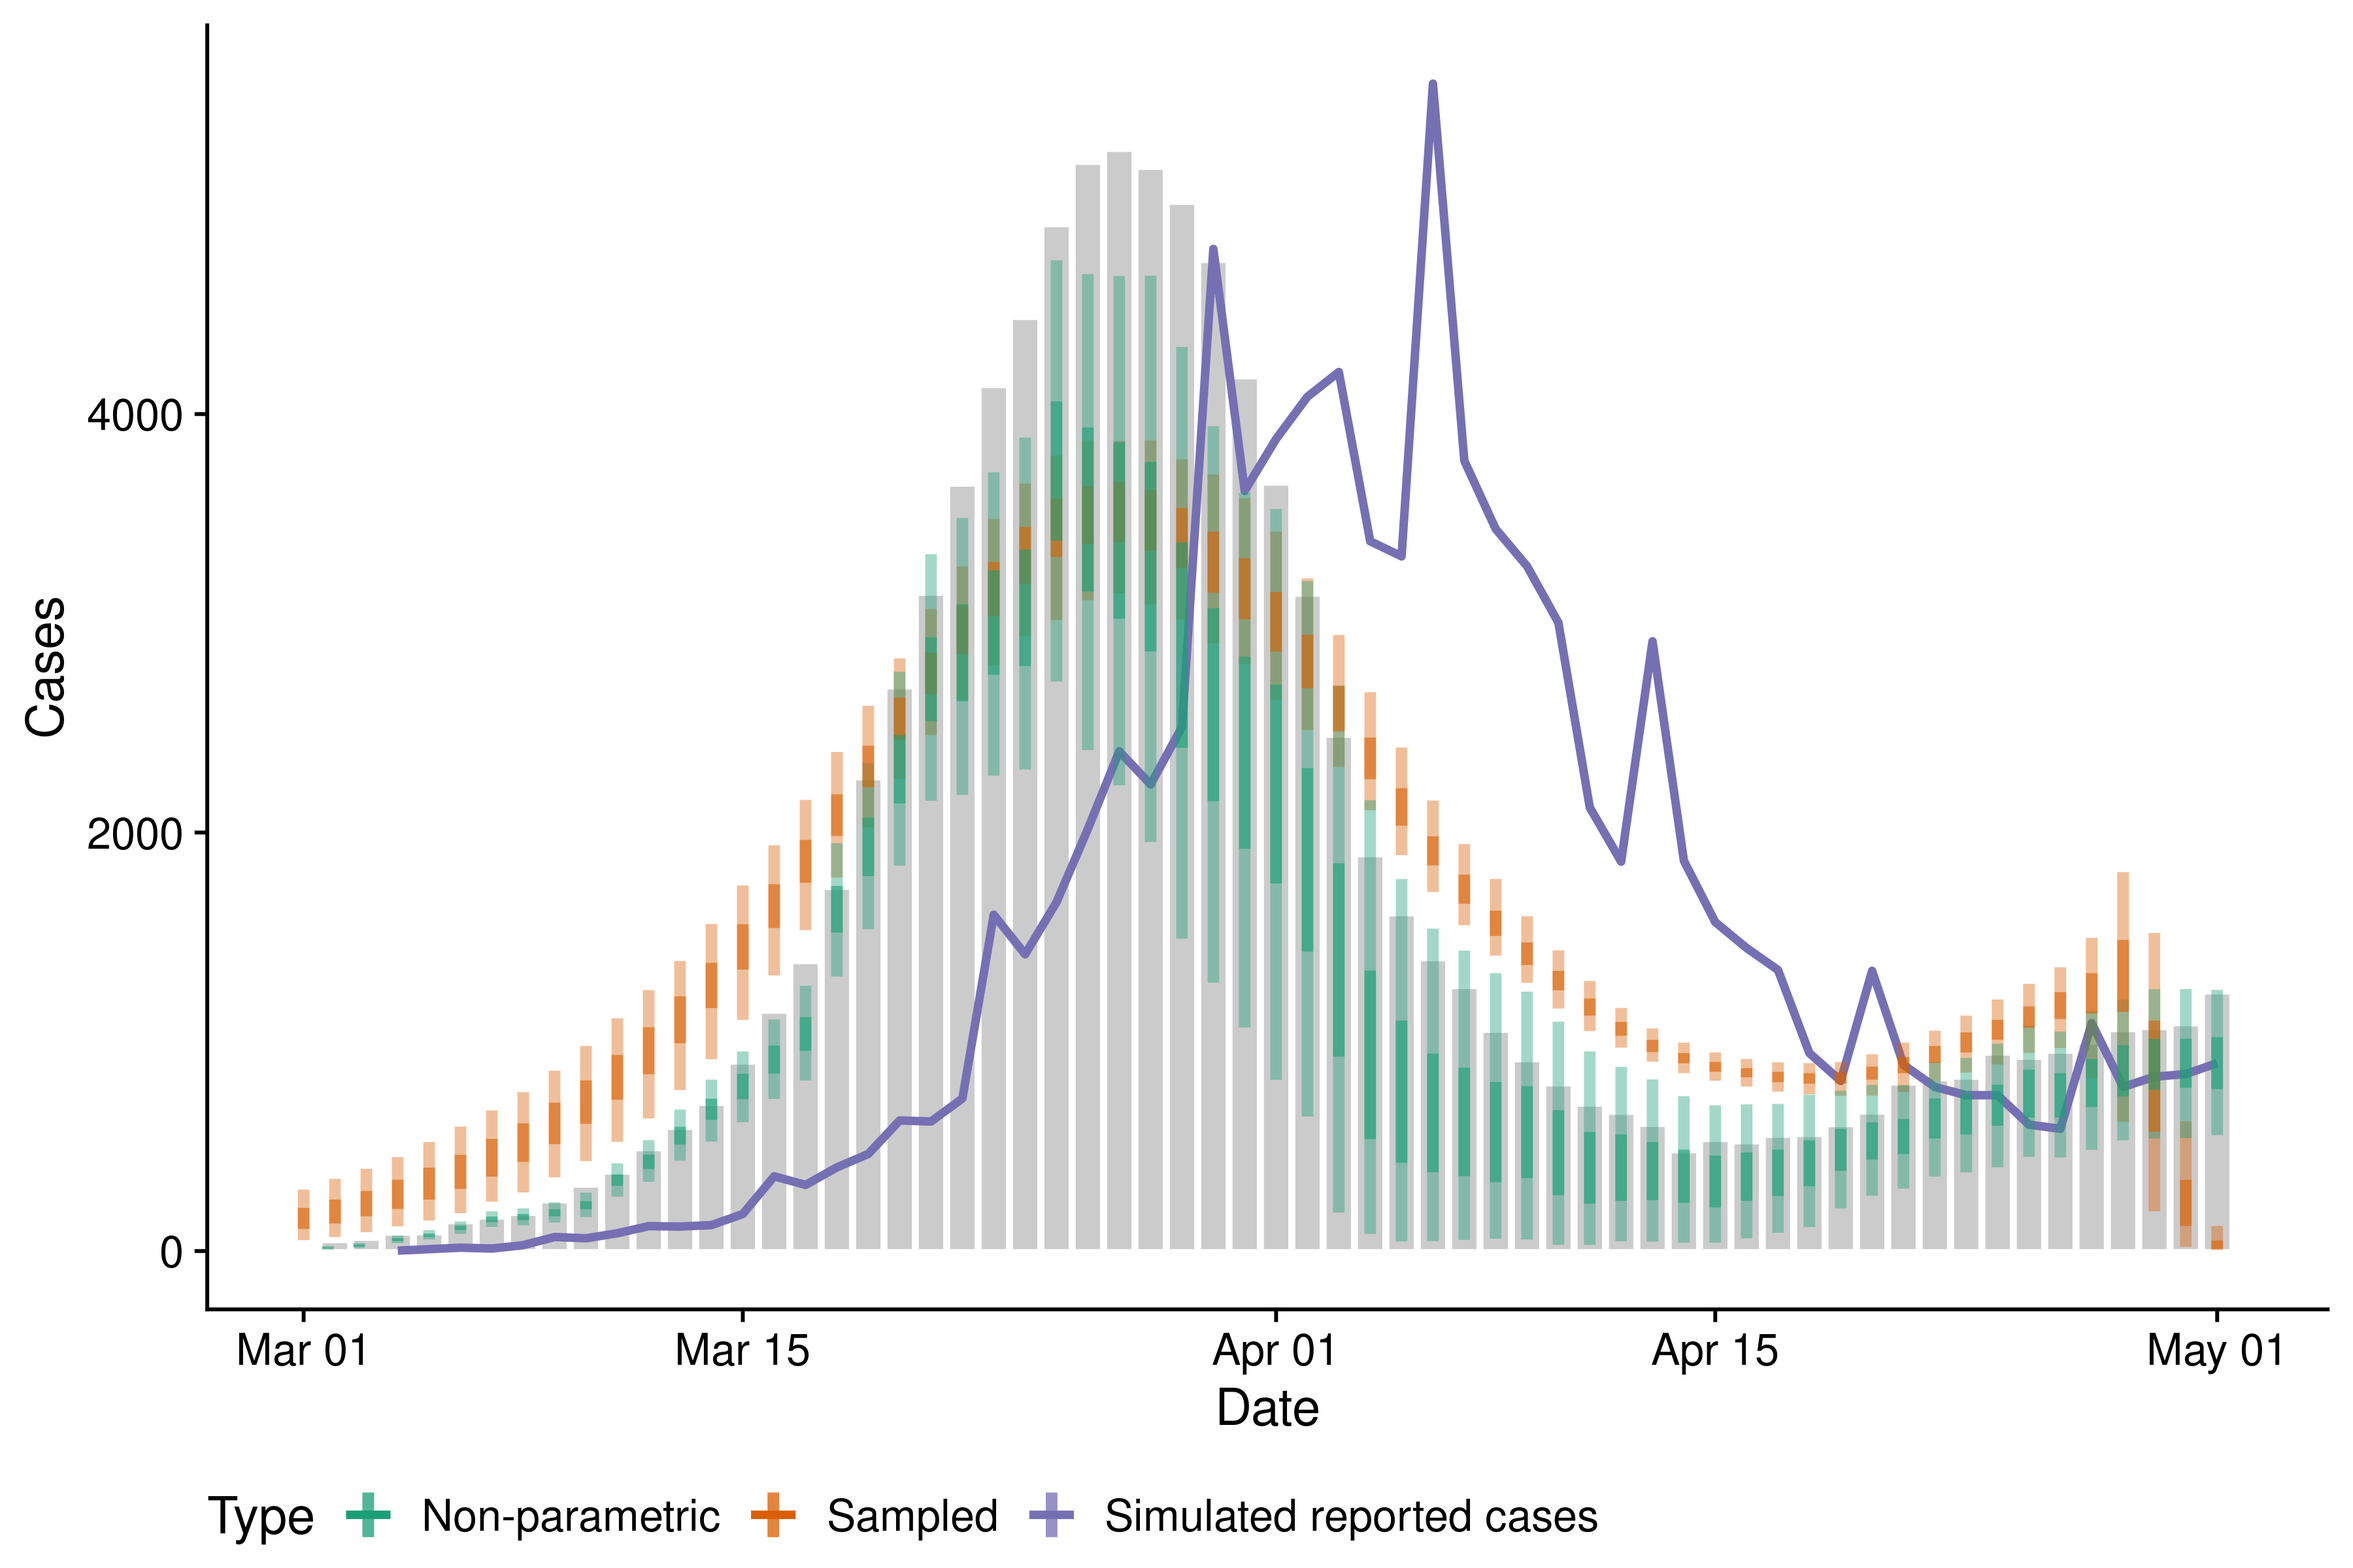
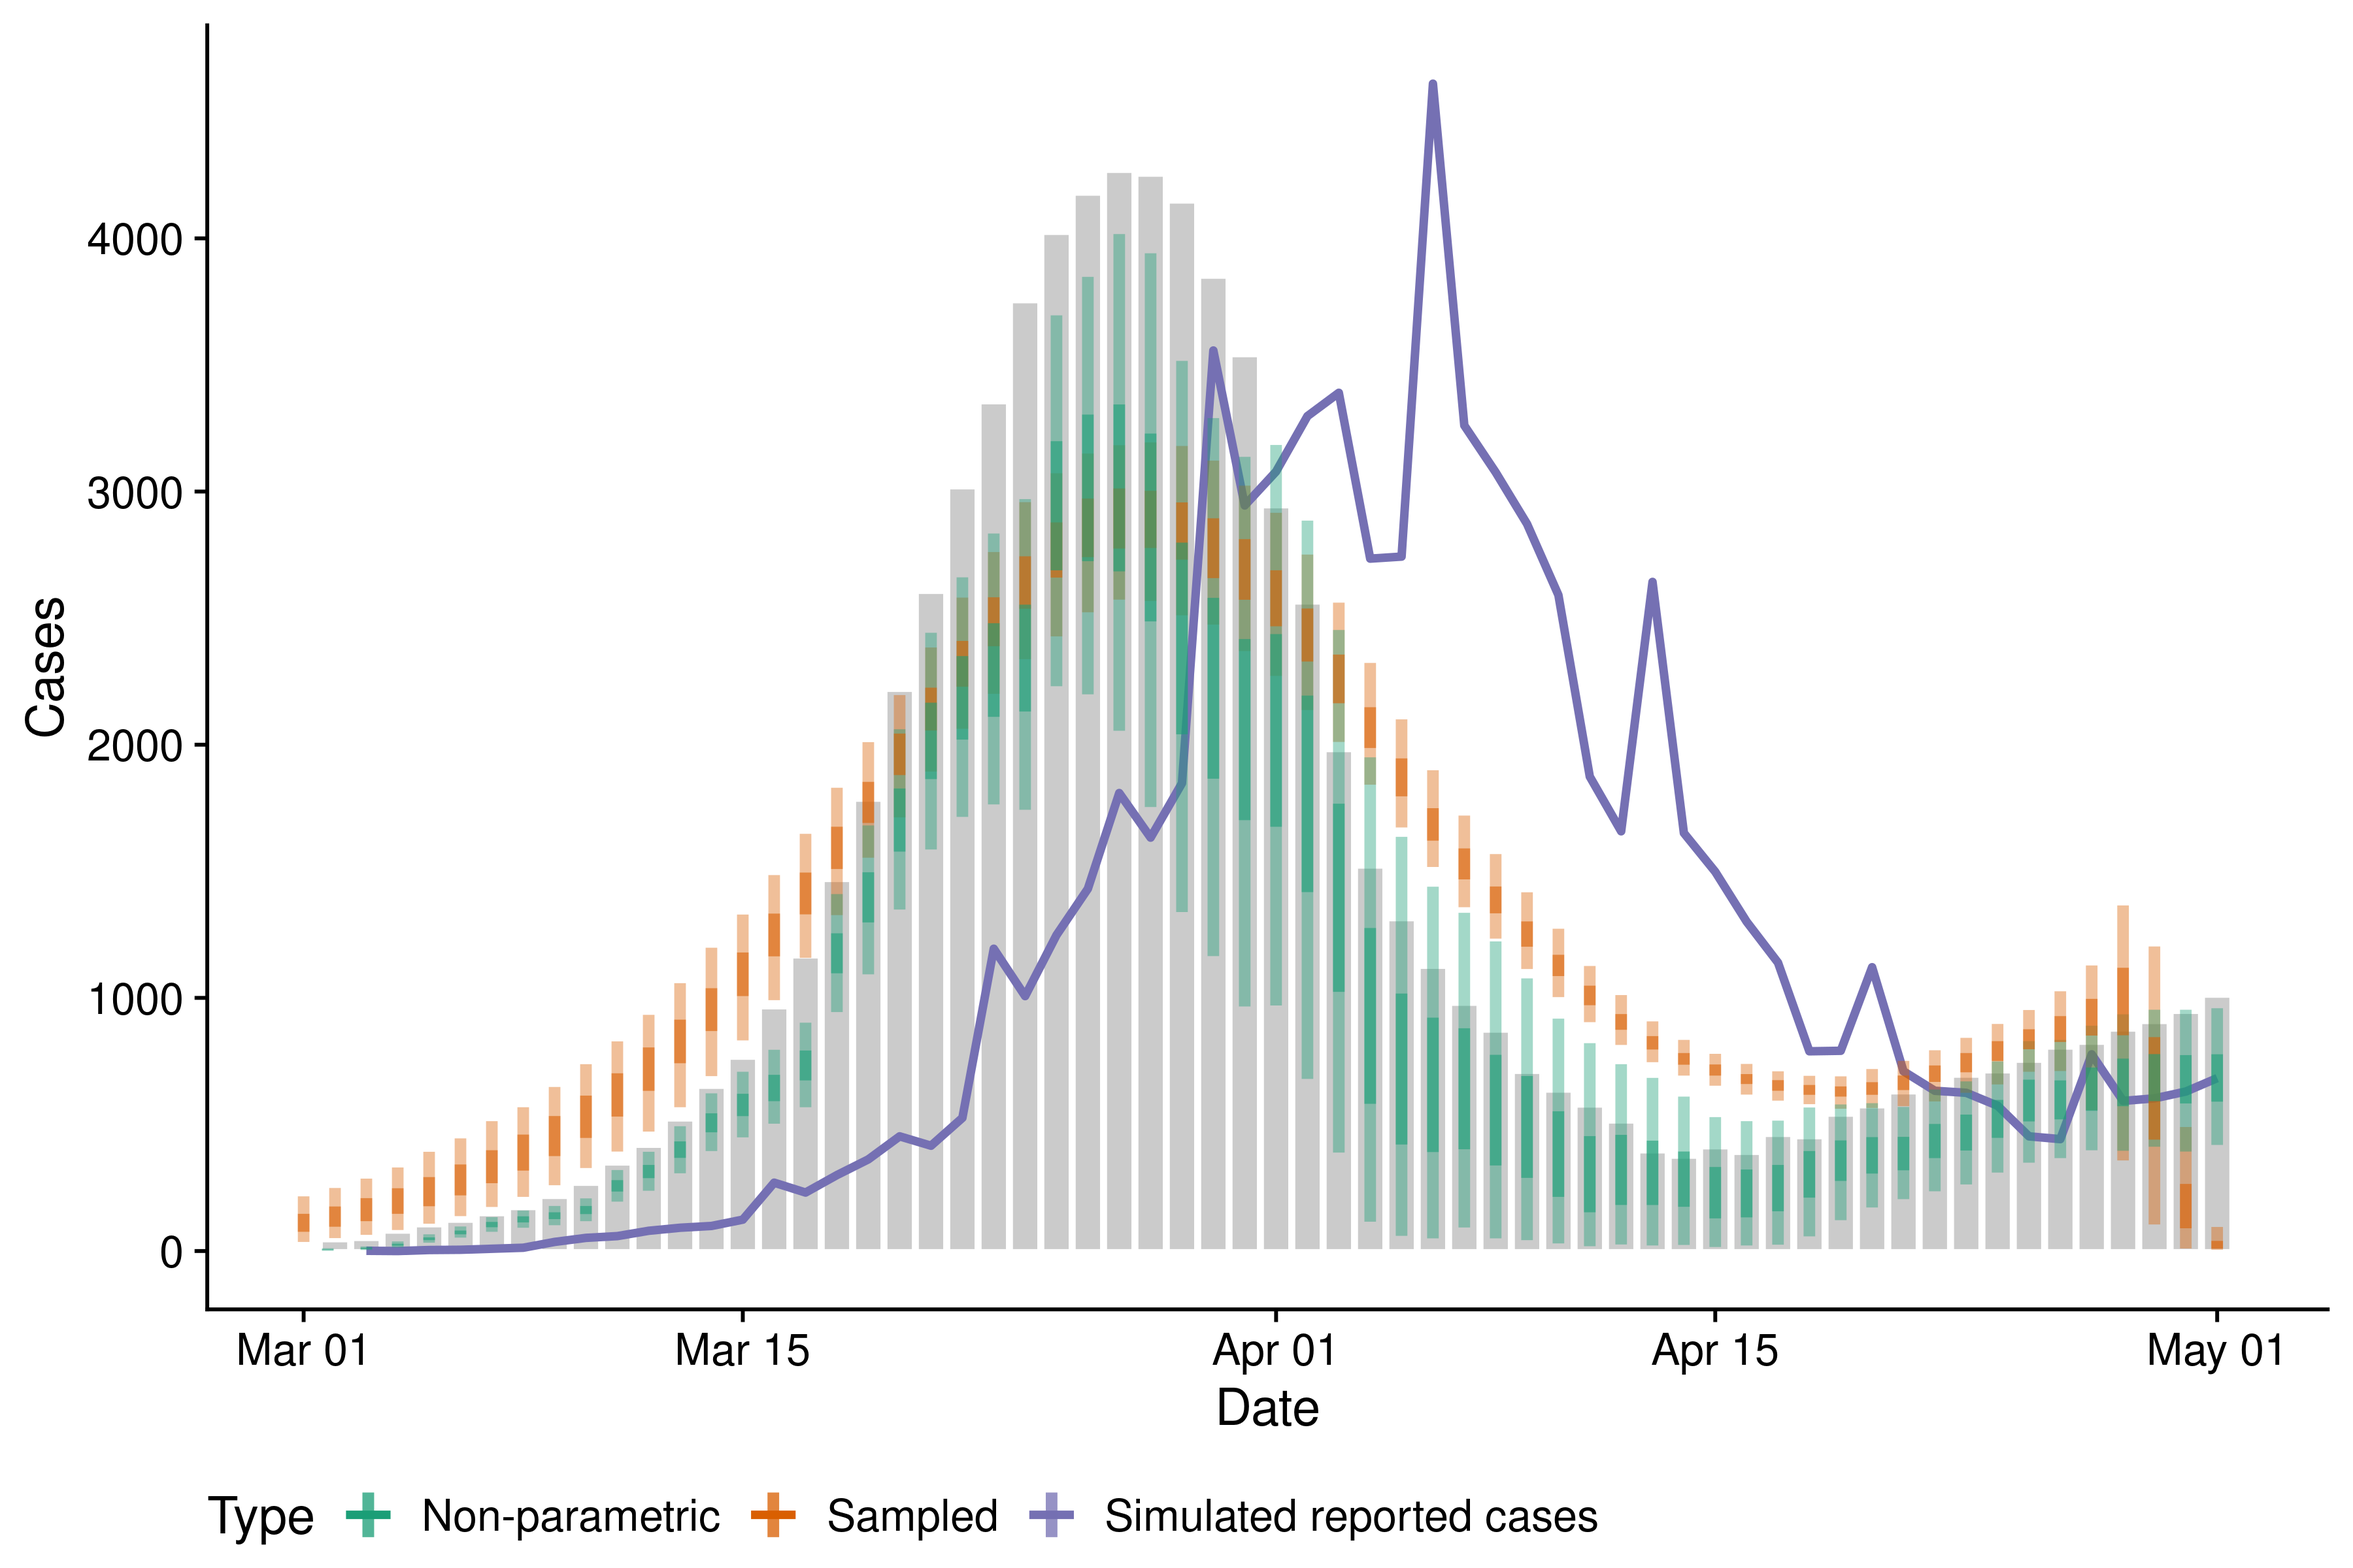
fixed weekly period

diff --git a/report.md b/report.md
@@ -152,7 +152,7 @@ model
 #> }
 #> 
 #> model {
-#>   // Week effect - upweighted by overall time
+#>   // Week effect
 #>   for (j in 1:7) {
 #>     day_of_week_eff[j] ~ normal(1, 0.1) T[0,];
 #>   }
@@ -259,17 +259,17 @@ simulated_cases <- EpiNow::simulate_cases(rts, initial_cases = 100 , initial_dat
                                           reporting_effect = c(1.4, rep(1, 4), 0.8, 0.8))
 simulated_cases
 #>            date cases reference
-#>   1: 2020-03-02    47 infection
-#>   2: 2020-03-03    58 infection
-#>   3: 2020-03-04    82 infection
-#>   4: 2020-03-05    84 infection
-#>   5: 2020-03-06   137 infection
+#>   1: 2020-03-02    42 infection
+#>   2: 2020-03-03    47 infection
+#>   3: 2020-03-04    76 infection
+#>   4: 2020-03-05   101 infection
+#>   5: 2020-03-06   119 infection
 #>  ---                           
-#> 177: 2020-04-27  1089    report
-#> 178: 2020-04-28   784    report
-#> 179: 2020-04-29   833    report
-#> 180: 2020-04-30   846    report
-#> 181: 2020-05-01   898    report
+#> 178: 2020-04-27   777    report
+#> 179: 2020-04-28   593    report
+#> 180: 2020-04-29   603    report
+#> 181: 2020-04-30   630    report
+#> 182: 2020-05-01   683    report
 ```
 
 ### Compare approaches on simulated data
@@ -288,6 +288,7 @@ sampling_cases <- nowcast_pipeline(reported_cases = simulated_reports[, import_s
                                    delay_defs = delay_defs,
                                    incubation_defs = incubation_defs,
                                    nowcast_lag = 0, approx_delay = TRUE)
+#> Warning in stats::rnbinom(n, x + 1, prob): NAs produced
 
 ## Non-parameteric reconstruction
 non_parametric_cases <- nowcast(simulated_reports,
@@ -295,7 +296,7 @@ non_parametric_cases <- nowcast(simulated_reports,
                                 reporting_delay = reporting_delay,
                                 generation_interval = generation_interval, cores = 4, chains = 4,
                                 samples = 1000, return_all = TRUE, model = model, verbose = TRUE)
-#> Running for 2000 samples and 62 time steps
+#> Running for 2000 samples and 63 time steps
 ```
 
 ### Compare approaches on reported Covid-19 cases in Austria, the United Kingdom, United States of America and Russia
@@ -345,6 +346,13 @@ results <- lapply(countries,
         
         return(list(sampling_cases, non_parametric_cases))
                                        })
+#> Warning in stats::rnbinom(n, x + 1, prob): NAs produced
+
+#> Warning in stats::rnbinom(n, x + 1, prob): NAs produced
+
+#> Warning in stats::rnbinom(n, x + 1, prob): NAs produced
+
+#> Warning in stats::rnbinom(n, x + 1, prob): NAs produced
 
 names(results) <- countries
 ```
@@ -361,13 +369,13 @@ names(results) <- countries
 ``` r
 non_parametric_cases$day_of_week[, as.list(summary(value)), by = "wday"]
 #>         wday     Min.  1st Qu.   Median     Mean  3rd Qu.     Max.
-#> 1:    Monday 1.932555 2.039993 2.064191 2.064631 2.089676 2.187793
-#> 2:   Tuesday 1.379343 1.456252 1.475465 1.474978 1.493991 1.575558
-#> 3: Wednesday 1.361287 1.429518 1.448668 1.448489 1.466445 1.542099
-#> 4:  Thursday 1.369341 1.451050 1.469386 1.469529 1.488405 1.559576
-#> 5:    Friday 1.387628 1.473326 1.492800 1.492694 1.512469 1.582943
-#> 6:  Saturday 1.122655 1.188159 1.204404 1.204294 1.220213 1.281799
-#> 7:    Sunday 1.112569 1.174945 1.190271 1.190706 1.206478 1.264502
+#> 1:    Monday 1.902820 2.003339 2.026474 2.027128 2.050615 2.148621
+#> 2:   Tuesday 1.392113 1.465121 1.484220 1.484420 1.503557 1.580182
+#> 3: Wednesday 1.362650 1.452986 1.471773 1.472167 1.490939 1.581871
+#> 4:  Thursday 1.367779 1.451714 1.470240 1.470722 1.489859 1.564598
+#> 5:    Friday 1.376836 1.457507 1.476077 1.476577 1.495172 1.590575
+#> 6:  Saturday 1.100633 1.160272 1.175388 1.176022 1.191357 1.269454
+#> 7:    Sunday 1.106332 1.172542 1.188139 1.188054 1.203116 1.277741
 ```
 
   - Recover reporting delays
@@ -379,9 +387,9 @@ data.table::rbindlist(list(
   non_parametric_cases$rep_mean[, .(parameter = "mean", mean = mean(value), sd = sd(value))],
   non_parametric_cases$rep_sd[, .(parameter = "sd", mean = mean(value), sd = sd(value))]
 ))
-#>    parameter     mean         sd
-#> 1:      mean 1.505150 0.01130677
-#> 2:        sd 0.720133 0.02236390
+#>    parameter      mean         sd
+#> 1:      mean 1.5094239 0.01124329
+#> 2:        sd 0.7075753 0.02161969
 ```
 
   - Recover incubation period
@@ -393,9 +401,9 @@ data.table::rbindlist(list(
   non_parametric_cases$inc_mean[, .(parameter = "mean", mean = mean(value), sd = sd(value))],
   non_parametric_cases$inc_sd[, .(parameter = "sd", mean = mean(value), sd = sd(value))]
 ))
-#>    parameter     mean          sd
-#> 1:      mean 1.564275 0.007857272
-#> 2:        sd 0.423359 0.008674002
+#>    parameter      mean          sd
+#> 1:      mean 1.5674071 0.007563533
+#> 2:        sd 0.4212932 0.008447269
 ```
 
   - Prepare data for
@@ -478,43 +486,43 @@ country
 purrr::map(results, ~ .[[2]]$day_of_week[, as.list(summary(value)), by = "wday"])
 #> $Austria
 #>         wday     Min.  1st Qu.   Median     Mean  3rd Qu.     Max.
-#> 1:    Monday 0.973892 1.075394 1.097118 1.097280 1.118496 1.210141
-#> 2:   Tuesday 1.281461 1.414582 1.438716 1.439790 1.464434 1.612219
-#> 3: Wednesday 1.302631 1.400197 1.423567 1.424551 1.448971 1.552925
-#> 4:  Thursday 1.145108 1.262120 1.286164 1.285877 1.309090 1.406093
-#> 5:    Friday 1.436936 1.560814 1.587052 1.587381 1.612478 1.736793
-#> 6:  Saturday 1.263272 1.363495 1.388416 1.388650 1.413155 1.510942
-#> 7:    Sunday 1.012271 1.095188 1.116443 1.116854 1.137589 1.235215
+#> 1:    Monday 1.003869 1.077007 1.097614 1.098317 1.118879 1.217282
+#> 2:   Tuesday 1.305876 1.415159 1.440699 1.441421 1.466242 1.599845
+#> 3: Wednesday 1.298441 1.401610 1.426439 1.426536 1.450478 1.568718
+#> 4:  Thursday 1.176886 1.264578 1.286425 1.286900 1.309680 1.397371
+#> 5:    Friday 1.451119 1.561865 1.588790 1.588488 1.615422 1.722993
+#> 6:  Saturday 1.282577 1.365209 1.389611 1.389710 1.413234 1.513859
+#> 7:    Sunday 1.012487 1.096579 1.118227 1.118199 1.139168 1.218347
 #> 
 #> $`United Kingdom`
-#>         wday     Min.  1st Qu.   Median     Mean  3rd Qu.     Max.
-#> 1:    Monday 1.277163 1.385064 1.410641 1.410697 1.435817 1.531626
-#> 2:   Tuesday 1.006268 1.085404 1.104328 1.104287 1.123556 1.233610
-#> 3: Wednesday 1.623342 1.750551 1.779856 1.781879 1.812062 1.943869
-#> 4:  Thursday 1.641096 1.754944 1.782326 1.783924 1.810681 1.934595
-#> 5:    Friday 1.600699 1.741114 1.779962 1.780280 1.819059 1.938234
-#> 6:  Saturday 1.293624 1.375608 1.395637 1.395360 1.415627 1.518421
-#> 7:    Sunday 1.457151 1.572298 1.596765 1.597317 1.621200 1.733982
+#>         wday      Min.  1st Qu.   Median     Mean  3rd Qu.     Max.
+#> 1:    Monday 1.2814755 1.385751 1.411761 1.413388 1.440289 1.544749
+#> 2:   Tuesday 0.9932914 1.084431 1.105810 1.105389 1.126616 1.210651
+#> 3: Wednesday 1.6077970 1.752078 1.781306 1.782639 1.813324 1.946729
+#> 4:  Thursday 1.6643914 1.753612 1.781748 1.783982 1.811174 1.961225
+#> 5:    Friday 1.5656658 1.740930 1.778917 1.780431 1.815605 1.999957
+#> 6:  Saturday 1.2883746 1.374935 1.393716 1.394852 1.415309 1.521516
+#> 7:    Sunday 1.4847833 1.575304 1.601612 1.601659 1.626736 1.731020
 #> 
 #> $`United States of America`
-#>         wday      Min.  1st Qu.   Median     Mean  3rd Qu.     Max.
-#> 1:    Monday 0.7896457 1.185581 1.346158 1.228098 1.362433 1.430547
-#> 2:   Tuesday 0.8229694 1.292526 1.485230 1.343167 1.503736 1.584121
-#> 3: Wednesday 1.1889584 1.609948 1.766987 1.672611 1.788958 1.876931
-#> 4:  Thursday 1.1357123 1.230992 1.245342 1.275228 1.275552 1.513721
-#> 5:    Friday 1.2617045 1.604421 1.628124 1.603742 1.648593 1.735145
-#> 6:  Saturday 1.2553469 1.596845 1.734478 1.654201 1.758730 1.856069
-#> 7:    Sunday 1.2648356 1.663881 1.841991 1.731228 1.867345 1.968917
+#>         wday     Min.  1st Qu.   Median     Mean  3rd Qu.     Max.
+#> 1:    Monday 1.316039 1.394631 1.438700 1.425906 1.456850 1.519692
+#> 2:   Tuesday 1.438004 1.535344 1.592008 1.576133 1.611416 1.692609
+#> 3: Wednesday 1.714663 1.830338 1.896862 1.877839 1.921466 2.016750
+#> 4:  Thursday 1.187206 1.279803 1.326326 1.311118 1.341786 1.400628
+#> 5:    Friday 1.566618 1.694741 1.756385 1.735876 1.777616 1.851136
+#> 6:  Saturday 1.677872 1.801986 1.855881 1.838542 1.879660 1.950994
+#> 7:    Sunday 1.787214 1.904826 1.965495 1.948309 1.989190 2.069483
 #> 
 #> $Russia
 #>         wday     Min.  1st Qu.   Median     Mean  3rd Qu.     Max.
-#> 1:    Monday 1.510547 1.566890 1.584560 1.584075 1.600729 1.658784
-#> 2:   Tuesday 1.441606 1.496855 1.513474 1.513365 1.529672 1.595445
-#> 3: Wednesday 1.441574 1.503308 1.519837 1.519792 1.536460 1.598696
-#> 4:  Thursday 1.376055 1.430883 1.446421 1.446630 1.462402 1.524792
-#> 5:    Friday 1.399912 1.462178 1.478360 1.478414 1.493975 1.553627
-#> 6:  Saturday 1.441327 1.507122 1.523094 1.523456 1.539572 1.601130
-#> 7:    Sunday 1.459642 1.517685 1.534633 1.534355 1.550368 1.617946
+#> 1:    Monday 1.486900 1.569562 1.586170 1.586179 1.602627 1.682876
+#> 2:   Tuesday 1.422231 1.499470 1.516063 1.515840 1.531725 1.604834
+#> 3: Wednesday 1.429735 1.505883 1.522643 1.522386 1.538716 1.605215
+#> 4:  Thursday 1.354536 1.433161 1.449186 1.448797 1.464296 1.534571
+#> 5:    Friday 1.382231 1.464679 1.480864 1.480542 1.496252 1.580211
+#> 6:  Saturday 1.427733 1.509669 1.526102 1.525736 1.541702 1.621498
+#> 7:    Sunday 1.443125 1.520475 1.536559 1.536509 1.552394 1.629170
 ```
 
   - Prepare data for
